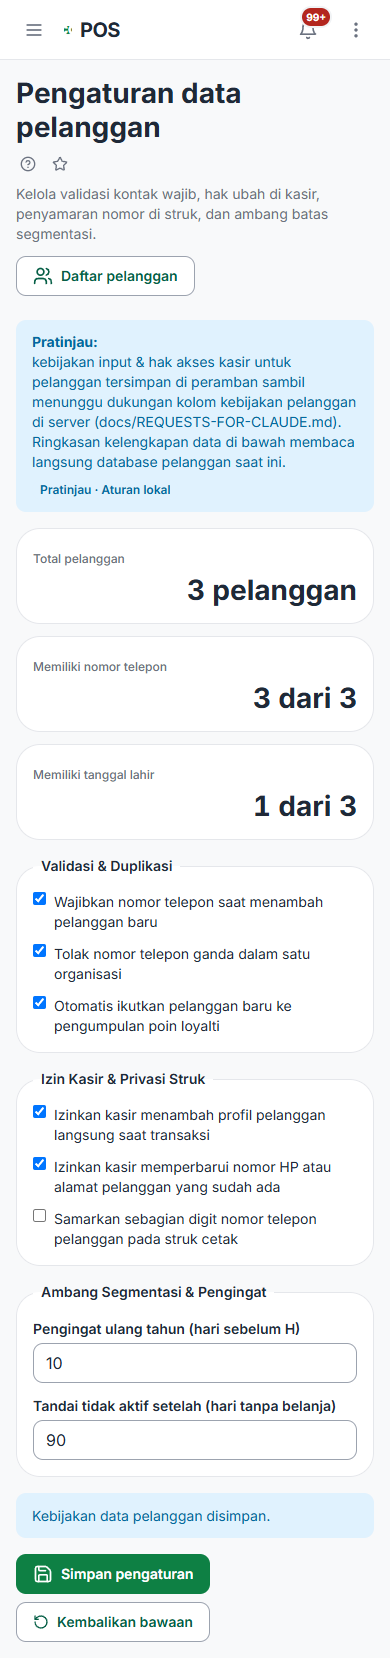
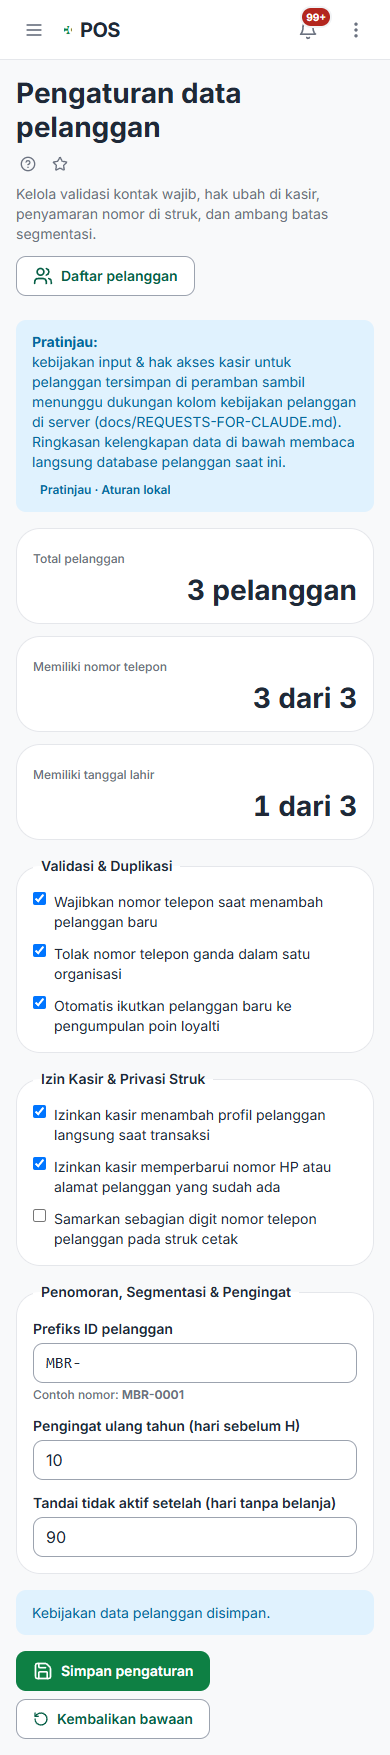
feat: lengkapi prefiks ID pelanggan, checklist harian layar gudang, dan label pratinjau kepuasan (A60)

Changed region(s): [[0.0308, 0.0, 0.9231, 0.9843], [0.8923, 0.8305, 0.9231, 0.892], [0.7692, 0.0, 0.8308, 0.0308]]

diff --git a/apps/dashboard/src/components/warehouse-screen.tsx b/apps/dashboard/src/components/warehouse-screen.tsx
@@ -1,10 +1,15 @@
 'use client';
 
 import Link from 'next/link';
-import { useMemo, useState } from 'react';
+import { useEffect, useMemo, useState } from 'react';
 import { AlertTriangle, CheckCircle2, Package, RefreshCw, Search, XCircle } from 'lucide-react';
 import { buildWarehouseQueue, formatRp, type WarehouseFilter } from '@cgpos/shared';
 import { ErrorBox } from '@/components/page';
+import {
+  jakartaTodayKey,
+  loadWarehousePreparedIds,
+  saveWarehousePreparedIds,
+} from '@/lib/a60-preview';
 import { useData } from '@/lib/data';
 import { useAsync } from '@/lib/use-async';
 
@@ -17,6 +22,25 @@ export function WarehouseScreen() {
   const [filter, setFilter] = useState<WarehouseFilter>('all');
   const [search, setSearch] = useState('');
   const [categoryId, setCategoryId] = useState('');
+  const [todayKey, setTodayKey] = useState('');
+  const [preparedIds, setPreparedIds] = useState<string[]>([]);
+
+  useEffect(() => {
+    const day = jakartaTodayKey();
+    setTodayKey(day);
+    setPreparedIds(loadWarehousePreparedIds(day));
+  }, []);
+
+  function togglePrepared(productId: string) {
+    const day = todayKey || jakartaTodayKey();
+    const exists = preparedIds.includes(productId);
+    const next = exists
+      ? preparedIds.filter((id) => id !== productId)
+      : [...preparedIds, productId];
+    setTodayKey(day);
+    setPreparedIds(next);
+    saveWarehousePreparedIds(day, next);
+  }
 
   const categories = useMemo(() => {
     if (stockState.status !== 'ready') return [];
@@ -46,6 +70,9 @@ export function WarehouseScreen() {
           </p>
         </div>
         <div className="flex flex-wrap items-center gap-8">
+          <span className="cg-badge cg-badge--info whitespace-nowrap">
+            Disiapkan hari ini: {preparedIds.length}
+          </span>
           <button
             type="button"
             className="cg-btn cg-btn--secondary cg-btn--sm"
@@ -204,6 +231,7 @@ export function WarehouseScreen() {
               <table className="cg-data">
                 <thead>
                   <tr>
+                    <th className="whitespace-nowrap">Siap hari ini</th>
                     <th>Item persediaan</th>
                     <th>Jenis &amp; kategori</th>
                     <th className="text-right">Stok tersedia</th>
@@ -213,8 +241,23 @@ export function WarehouseScreen() {
                   </tr>
                 </thead>
                 <tbody>
-                  {queue.rows.map((item) => (
+                  {queue.rows.map((item) => {
+                    const isPrepared = preparedIds.includes(item.productId);
+                    return (
                     <tr key={item.productId}>
+                      <td className="whitespace-nowrap">
+                        <label className="inline-flex items-center gap-8 text-xs cursor-pointer">
+                          <input
+                            type="checkbox"
+                            checked={isPrepared}
+                            onChange={() => togglePrepared(item.productId)}
+                            aria-label={`Tandai siap ${item.name}`}
+                          />
+                          <span className={isPrepared ? 'text-accent font-medium' : 'text-text-muted'}>
+                            {isPrepared ? 'Sudah disiapkan' : 'Belum'}
+                          </span>
+                        </label>
+                      </td>
                       <td className="min-w-[180px] max-w-[280px]">
                         <div className="font-semibold break-words">{item.name}</div>
                         <div className="text-xs text-text-muted">Satuan: {item.unit}</div>
@@ -252,7 +295,8 @@ export function WarehouseScreen() {
                         {formatRp(item.value)}
                       </td>
                     </tr>
-                  ))}
+                    );
+                  })}
                 </tbody>
               </table>
             </div>

diff --git a/apps/dashboard/src/lib/a60-preview.ts b/apps/dashboard/src/lib/a60-preview.ts
@@ -10,6 +10,7 @@ import {
 const FIELDS_KEY = 'cg-a60-customer-fields-v1';
 const POLICY_KEY = 'cg-a60-customer-policy-v1';
 const FOLLOWUP_KEY = 'cg-a60-satisfaction-followup-v1';
+const WAREHOUSE_PREP_KEY = 'cg-a60-warehouse-prepared-v1';
 
 function readJson<T>(key: string, fallback: T): T {
   if (typeof window === 'undefined') return fallback;
@@ -68,6 +69,10 @@ export function loadCustomerPolicy(): CustomerPolicySettings {
       typeof parsed.hidePhoneMaskOnReceipt === 'boolean'
         ? parsed.hidePhoneMaskOnReceipt
         : DEFAULT_CUSTOMER_POLICY.hidePhoneMaskOnReceipt,
+    customerIdPrefix:
+      typeof parsed.customerIdPrefix === 'string' && parsed.customerIdPrefix.trim()
+        ? parsed.customerIdPrefix.trim().toUpperCase()
+        : DEFAULT_CUSTOMER_POLICY.customerIdPrefix,
     birthdayReminderDaysBefore:
       typeof parsed.birthdayReminderDaysBefore === 'number' &&
       Number.isInteger(parsed.birthdayReminderDaysBefore)
@@ -91,5 +96,21 @@ export function loadSatisfactionFollowups(): Record<string, string> {
 
 export function saveSatisfactionFollowups(next: Record<string, string>): void {
   writeJson(FOLLOWUP_KEY, next);
+}
+
+/** Tanggal lokal Asia/Jakarta (YYYY-MM-DD) untuk mereset checklist persiapan gudang tiap hari. */
+export function jakartaTodayKey(): string {
+  return new Intl.DateTimeFormat('en-CA', { timeZone: 'Asia/Jakarta' }).format(new Date());
+}
+
+export function loadWarehousePreparedIds(dateKey: string): string[] {
+  const map = readJson<Record<string, string[]>>(WAREHOUSE_PREP_KEY, {});
+  const list = map[dateKey];
+  return Array.isArray(list) ? list : [];
+}
+
+export function saveWarehousePreparedIds(dateKey: string, ids: string[]): void {
+  // Simpan hanya hari ini agar penyimpanan lokal tetap ringkas.
+  writeJson(WAREHOUSE_PREP_KEY, { [dateKey]: ids });
 }
 

diff --git a/apps/dashboard/src/app/pelanggan/pengaturan/page.tsx b/apps/dashboard/src/app/pelanggan/pengaturan/page.tsx
@@ -178,8 +178,30 @@ export default function PengaturanDataPelangganPage() {
         </fieldset>
 
         <fieldset className="border border-border rounded-xl bg-surface-raised p-16 grid gap-12">
-          <legend className="px-8 font-semibold text-sm">Ambang Segmentasi &amp; Pengingat</legend>
-          <div className="grid gap-12 tablet:grid-cols-2">
+          <legend className="px-8 font-semibold text-sm">Penomoran, Segmentasi &amp; Pengingat</legend>
+          <div className="grid gap-12 tablet:grid-cols-3">
+            <div className="cg-field">
+              <label className="cg-label" htmlFor="pol-prefix">
+                Prefiks ID pelanggan
+              </label>
+              <input
+                id="pol-prefix"
+                className="cg-input font-mono"
+                maxLength={12}
+                placeholder="PLG-"
+                value={policy.customerIdPrefix}
+                onChange={(e) =>
+                  setPolicy((p) => ({
+                    ...p,
+                    customerIdPrefix: e.target.value.toUpperCase().replace(/[^A-Z0-9-]/g, ''),
+                  }))
+                }
+              />
+              <span className="text-xs text-text-muted">
+                Contoh nomor: <strong>{(policy.customerIdPrefix || 'PLG-')}0001</strong>
+              </span>
+            </div>
+
             <div className="cg-field">
               <label className="cg-label" htmlFor="pol-bday">
                 Pengingat ulang tahun (hari sebelum H)

diff --git a/packages/shared/src/customer-config.ts b/packages/shared/src/customer-config.ts
@@ -96,6 +96,7 @@ export interface CustomerPolicySettings {
   allowCashierEdit: boolean;
   defaultAutoJoinLoyalty: boolean;
   hidePhoneMaskOnReceipt: boolean;
+  customerIdPrefix: string;
   birthdayReminderDaysBefore: number;
   inactiveCustomerDaysThreshold: number;
 }
@@ -107,12 +108,17 @@ export const DEFAULT_CUSTOMER_POLICY: CustomerPolicySettings = {
   allowCashierEdit: true,
   defaultAutoJoinLoyalty: true,
   hidePhoneMaskOnReceipt: false,
+  customerIdPrefix: 'PLG-',
   birthdayReminderDaysBefore: 7,
   inactiveCustomerDaysThreshold: 90,
 };
 
 /** Validasi aturan kebijakan pengelolaan data pelanggan. */
 export function customerPolicyProblem(cfg: CustomerPolicySettings): string | null {
+  const prefix = cfg.customerIdPrefix.trim().toUpperCase();
+  if (!/^[A-Z0-9-]{2,12}$/.test(prefix)) {
+    return 'Prefiks ID pelanggan harus 2–12 karakter huruf besar, angka, atau tanda hubung (mis. PLG-).';
+  }
   if (
     !Number.isInteger(cfg.birthdayReminderDaysBefore) ||
     cfg.birthdayReminderDaysBefore < 0 ||

diff --git a/apps/dashboard/src/app/analisa/kepuasan/page.tsx b/apps/dashboard/src/app/analisa/kepuasan/page.tsx
@@ -66,7 +66,7 @@ export default function AnalisaKepuasanPage() {
 
       <div className="cg-banner cg-banner--info flex flex-wrap items-center justify-between gap-8">
         <p className="text-sm">
-          <strong>Pratinjau — Data Contoh:</strong> pengumpulan rating dan ulasan pelanggan dari struk digital maupun CG Order sedang disiapkan di server (docs/REQUESTS-FOR-CLAUDE.md). Panel ini menampilkan contoh olahan indeks kepuasan untuk validasi laporan.
+          <strong>Pratinjau:</strong> fitur ulasan pelanggan belum ada, menunggu keputusan apakah pelanggan bisa memberi rating setelah transaksi. Panel di bawah menampilkan data contoh untuk validasi tata letak laporan (docs/REQUESTS-FOR-CLAUDE.md).
         </p>
         <span className="cg-badge cg-badge--info whitespace-nowrap">Pratinjau · Data Contoh</span>
       </div>

diff --git a/packages/shared/test/customer-config.test.ts b/packages/shared/test/customer-config.test.ts
@@ -53,6 +53,9 @@ describe('customer config, satisfaction summary, and warehouse queue', () => {
   it('validates customer policy bounds and evaluates completeness', () => {
     expect(customerPolicyProblem(DEFAULT_CUSTOMER_POLICY)).toBeNull();
     expect(
+      customerPolicyProblem({ ...DEFAULT_CUSTOMER_POLICY, customerIdPrefix: '!' })
+    ).toMatch(/Prefiks ID pelanggan/);
+    expect(
       customerPolicyProblem({ ...DEFAULT_CUSTOMER_POLICY, birthdayReminderDaysBefore: 45 })
     ).toMatch(/0 sampai 30/);
 

diff --git a/docs/PROGRESS.md b/docs/PROGRESS.md
@@ -738,8 +738,8 @@ Format: tanggal, apa yang selesai, apa yang menunggu keputusan Louis.
 
 - A60 (`ag/a60-kepuasan-kustom-gudang`) — Analisa Kepuasan Pelanggan, Kustom & Pengaturan Data Pelanggan, serta Tab Layar Gudang di `/dapur`:
   - **`packages/shared/src/customer-config.ts` + `packages/shared/test/customer-config.test.ts`**: helper murni validasi kolom kustom pelanggan (termasuk blokir kolom PIN/kata sandi), validasi kebijakan profil & kelengkapan data (`evaluateCustomerCompleteness`), agregasi indeks kepuasan & tag (`computeSatisfactionSummary`), serta pengurutan prioritas stok habis/menipis (`buildWarehouseQueue`).
-  - **`apps/dashboard/src/app/analisa/kepuasan/page.tsx` (`S85`, `built: true`)**: pratinjau analitik kepuasan pelanggan berpenanda jelas (`Pratinjau — Data Contoh`), distribusi bintang 1–5, topik terbanyak, filter saluran & rating, dan tandai tindak lanjut.
+  - **`apps/dashboard/src/app/analisa/kepuasan/page.tsx` (`S85`, `built: true`)**: pratinjau analitik kepuasan pelanggan berpenanda jelas (`Pratinjau: fitur ulasan pelanggan belum ada, menunggu keputusan...`), distribusi bintang 1–5, topik terbanyak, filter saluran & rating, dan tandai tindak lanjut.
   - **`apps/dashboard/src/app/pelanggan/kustom/page.tsx` (`S41`, `built: true`)**: CRUD kolom tambahan profil pelanggan (`text`, `number`, `date`, `select`) beserta pratinjau formulir aktif.
-  - **`apps/dashboard/src/app/pelanggan/pengaturan/page.tsx` (`S41`, `built: true`)**: konfigurasi aturan validasi kontak wajib, nomor unik, izin ubah di kasir, penyamaran nomor di struk, dan metrik kelengkapan data pelanggan langsung dari `listCustomers()`.
-  - **`apps/dashboard/src/components/warehouse-screen.tsx` + tab `Layar Gudang` di `apps/dashboard/src/app/dapur/page.tsx` (`S60`)**: pantauan antrean persediaan langsung dari `data.listStock()` termasuk filter kategori bahan baku (`categoryId` / `categoryName` dari main terbaru), status habis/menipis/aman, dan tautan cepat opname/pembelian.
-  - **Celah `features.csv` (berkas CSV tidak dilacak di repo ini, dicatat di sini)**: `S85 Kepuasan pelanggan`, sub-layar `S41` (`/pelanggan/kustom`, `/pelanggan/pengaturan`), dan tab `Layar Gudang` di `S60` telah dibangun (permintaan dukungan server dicatat di `docs/REQUESTS-FOR-CLAUDE.md`).
+  - **`apps/dashboard/src/app/pelanggan/pengaturan/page.tsx` (`S41`, `built: true`)**: konfigurasi aturan validasi kontak wajib, nomor unik, format prefiks penomoran ID pelanggan (`customerIdPrefix`, bawaan `PLG-`), izin ubah di kasir, penyamaran nomor di struk, dan metrik kelengkapan data pelanggan langsung dari `listCustomers()`.
+  - **`apps/dashboard/src/components/warehouse-screen.tsx` + tab `Layar Gudang` di `apps/dashboard/src/app/dapur/page.tsx` (`S60`)**: pantauan antrean persediaan langsung dari `data.listStock()` termasuk filter kategori bahan baku (`categoryId` / `categoryName`), status habis/minus/menipis/aman, checklist `"Sudah disiapkan"` per item tersimpan di `localStorage` per hari (`Asia/Jakarta`), dan tautan cepat opname/pembelian.
+  - **Catatan status fitur (`features.csv` tidak dilacak di git repo ini)**: `analisa: Kepuasan pelanggan` (pratinjau), `pelanggan: Kustom data pelanggan` & `Pengaturan data pelanggan`, serta `dapur: Layar dapur (kitchen display) dan layar gudang` tab `Layar Gudang` telah dibangun dan dilampiri permintaan dukungan server di `docs/REQUESTS-FOR-CLAUDE.md`. Lulus `pnpm -r typecheck`, `pnpm -F @cgpos/shared test`, `pnpm -F @cgpos/dashboard build`, `lint-tailwind.sh`, serta Playwright 1440/1280/390 px (`docs/shots/a60/`).
